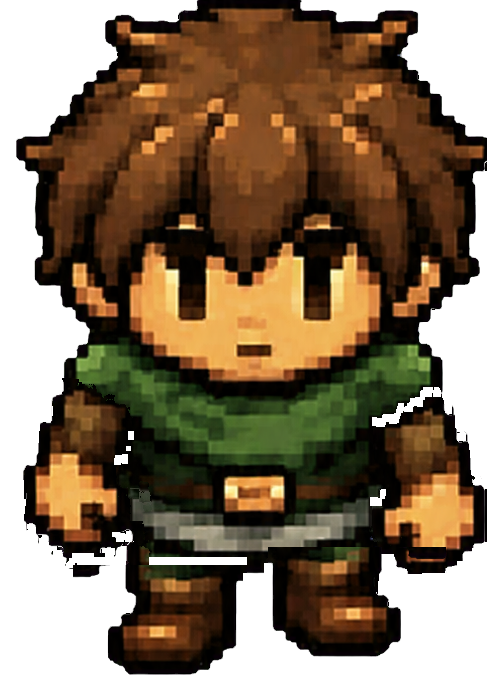
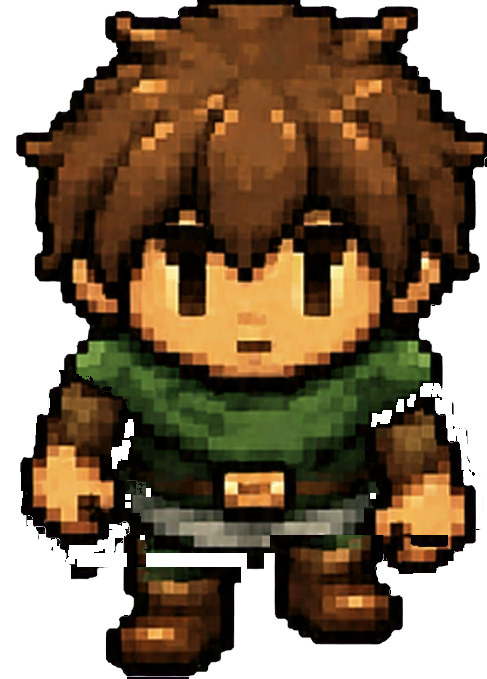
Strengthen Delver walk-down limb motion

diff --git a/js/screens.js b/js/screens.js
@@ -126,7 +126,7 @@ function easeOutBounce(x) {
 // top, bounces to a stop with a little screen-shake + thud, a shine sweeps
 // across it, then the rest of the screen fades in.
 // build stamp — bump this to the deploy time (Arizona/Phoenix time) on each update
-const BUILD_STAMP = '7/25/2026 6:25pm (mst)';
+const BUILD_STAMP = '7/25/2026 6:46pm (mst)';
 
 const ScreenTitle = {
   FALL: 0.85, SHINE_DELAY: 0.12, SHINE_DUR: 0.6,

diff --git a/scripts/build_player_walk_down.py b/scripts/build_player_walk_down.py
@@ -155,32 +155,32 @@ def make_step(
 def main():
     idle = Image.open(IDLE_PATH).convert("RGBA")
     transition_a = make_step(
-        idle, 6, -4,
-        left_arm_delta=(-1, -5),
-        right_arm_delta=(1, 5),
-        left_boot_delta=(-2, 4),
-        right_boot_delta=(2, -5),
+        idle, 6, -6,
+        left_arm_delta=(-3, -7),
+        right_arm_delta=(-3, 7),
+        left_boot_delta=(-3, 7),
+        right_boot_delta=(3, -9),
     )
     full_a = make_step(
-        idle, 12, -8,
-        left_arm_delta=(-3, -10),
-        right_arm_delta=(3, 10),
-        left_boot_delta=(-4, 8),
-        right_boot_delta=(4, -10),
+        idle, 12, -12,
+        left_arm_delta=(-6, -14),
+        right_arm_delta=(-6, 14),
+        left_boot_delta=(-6, 14),
+        right_boot_delta=(6, -18),
     )
     transition_b = make_step(
-        idle, -6, -4,
-        left_arm_delta=(-1, 5),
-        right_arm_delta=(1, -5),
-        left_boot_delta=(-2, -5),
-        right_boot_delta=(2, 4),
+        idle, -6, -6,
+        left_arm_delta=(3, 7),
+        right_arm_delta=(3, -7),
+        left_boot_delta=(-3, -9),
+        right_boot_delta=(3, 7),
     )
     full_b = make_step(
-        idle, -12, -8,
-        left_arm_delta=(-3, 10),
-        right_arm_delta=(3, -10),
-        left_boot_delta=(-4, -10),
-        right_boot_delta=(4, 8),
+        idle, -12, -12,
+        left_arm_delta=(6, 14),
+        right_arm_delta=(6, -14),
+        left_boot_delta=(-6, -18),
+        right_boot_delta=(6, 14),
     )
 
     frames = [
